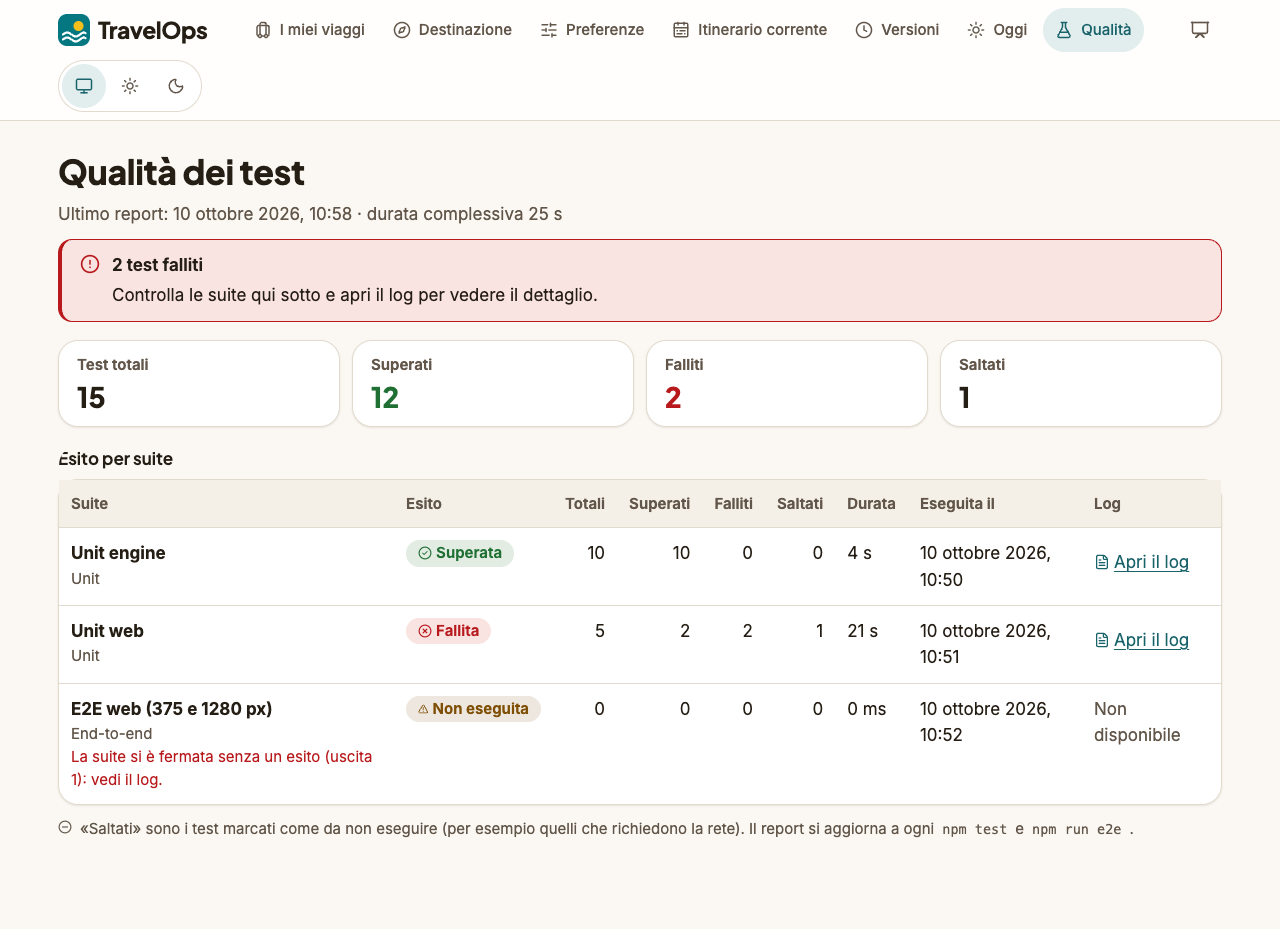
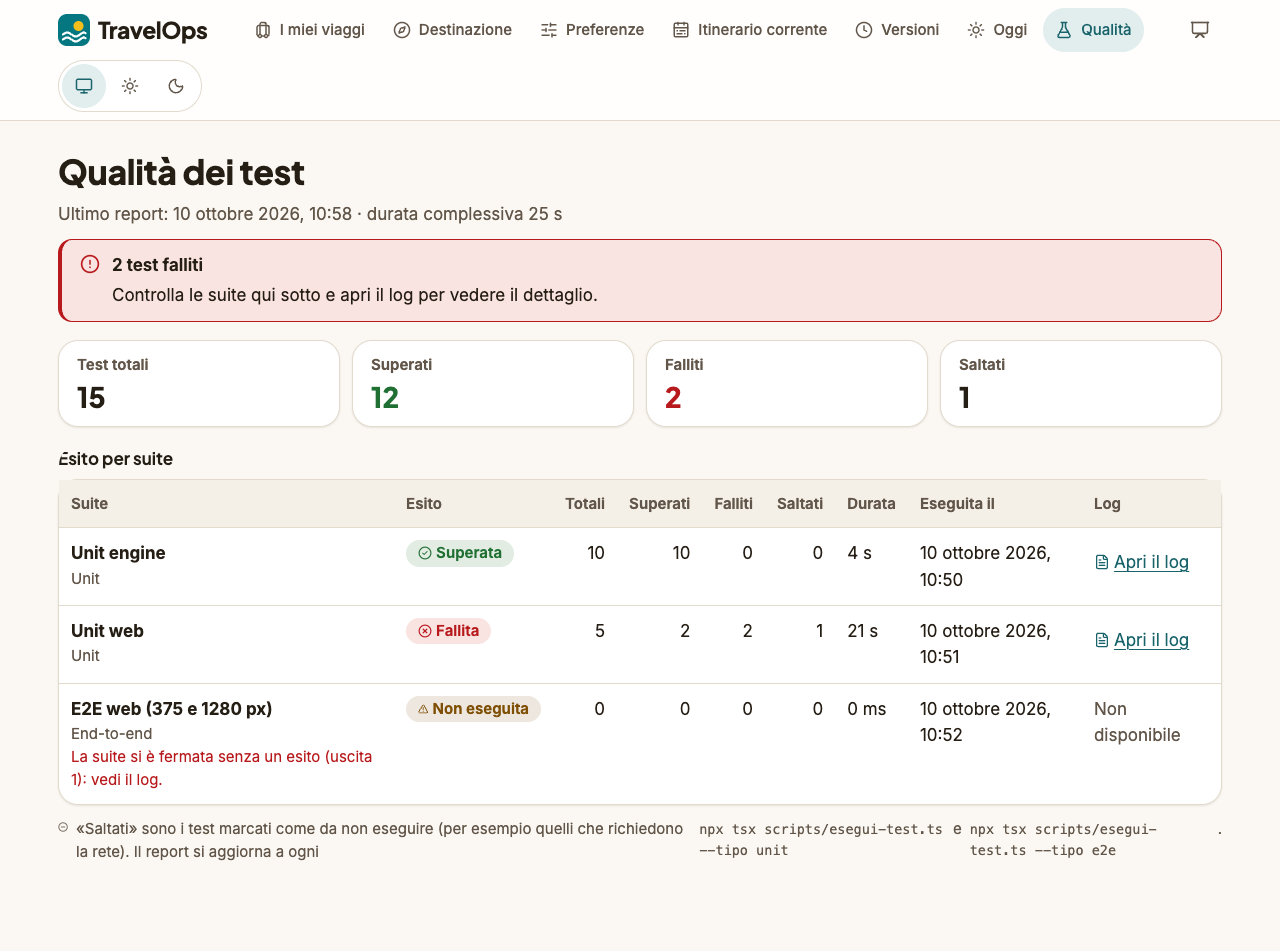
fix(obs-001a): report dei test da comando dedicato, package.json e .gitattributes come su main

diff --git a/apps/web/src/componenti/PaginaQualita.tsx b/apps/web/src/componenti/PaginaQualita.tsx
@@ -18,7 +18,7 @@ const TIPI: Readonly<Record<SuiteTest["tipo"], string>> = { unit: "Unit", e2e: "
 function Comandi() {
   return (
     <p className="qualita__comandi">
-      <code>npm test</code> <span aria-hidden="true">·</span> <code>npm run e2e</code>
+      <code>npx tsx scripts/esegui-test.ts --tipo unit</code> <span aria-hidden="true">·</span> <code>npx tsx scripts/esegui-test.ts --tipo e2e</code>
     </p>
   );
 }
@@ -105,7 +105,7 @@ function RigaSuite({ suite, fuso }: { suite: SuiteTest; fuso: string }) {
 }
 
 /**
- * Qualità dei test (ST-OBS-001A, REQ-OBS-001): l'ultimo report dei test scritto dagli script `npm test` e `npm run e2e`,
+ * Qualità dei test (ST-OBS-001A, REQ-OBS-001): l'ultimo report dei test scritto dagli script `npx tsx scripts/esegui-test.ts --tipo unit` e `npx tsx scripts/esegui-test.ts --tipo e2e`,
  * con i totali, l'esito di ogni suite, la data, la durata e il link al log. Senza il file (o con un file rotto) dice come generarlo.
  */
 export function PaginaQualita({ esito, fuso }: { esito: EsitoLetturaRapporto; fuso: string }) {
@@ -153,7 +153,7 @@ export function PaginaQualita({ esito, fuso }: { esito: EsitoLetturaRapporto; fu
         </tbody>
       </table>
       <p className="sottotitolo qualita__nota">
-        <MinusCircle size={14} aria-hidden="true" /> «Saltati» sono i test marcati come da non eseguire (per esempio quelli che richiedono la rete). Il report si aggiorna a ogni <code>npm test</code> e <code>npm run e2e</code>.
+        <MinusCircle size={14} aria-hidden="true" /> «Saltati» sono i test marcati come da non eseguire (per esempio quelli che richiedono la rete). Il report si aggiorna a ogni <code>npx tsx scripts/esegui-test.ts --tipo unit</code> e <code>npx tsx scripts/esegui-test.ts --tipo e2e</code>.
       </p>
     </section>
   );

diff --git a/apps/web/test/ca1-configurazione.test.ts b/apps/web/test/ca1-configurazione.test.ts
@@ -31,11 +31,7 @@ describe("CA-1 avvio, build e integrazione continua", () => {
 
   it("CA-1 dalla radice `npm run build` e `npm test` comprendono tutti i workspace, quindi anche la web app", () => {
     expect(radice.scripts.build).toBe("npm run build --workspaces --if-present");
-    // ST-OBS-001A: `npm test` passa da uno script che esegue ogni workspace con test e ne scrive il report;
-    // le suite sono in scripts/suite-test.json e devono coprire tutti i workspace (anche la web app).
-    expect(radice.scripts.test).toBe("tsx scripts/esegui-test.ts --tipo unit");
-    const suite = JSON.parse(leggi("../../../scripts/suite-test.json")) as { suite: { workspace: string; tipo: string }[] };
-    expect(suite.suite.filter((s) => s.tipo === "unit").map((s) => s.workspace).sort()).toEqual(["@travelops/agents", "@travelops/engine", "@travelops/sources", "@travelops/web"]);
+    expect(radice.scripts.test).toBe("npm test --workspaces --if-present");
     // Il motore va compilato prima della web app: i workspace sono elencati con packages/* prima di apps/*.
     expect(radice.workspaces).toEqual(["packages/*", "apps/*"]);
   });

diff --git a/apps/web/test/obs001a-pagina.test.tsx b/apps/web/test/obs001a-pagina.test.tsx
@@ -79,8 +79,8 @@ describe("senza report (CA-2)", () => {
     expect([...d.querySelectorAll("h1")].map((h) => h.textContent)).toEqual(["Nessun report dei test"]);
     const t = testoVisibile(markup);
     expect(t).toContain(PERCORSO);
-    expect(t).toContain("npm test");
-    expect(t).toContain("npm run e2e");
+    expect(t).toContain("npx tsx scripts/esegui-test.ts --tipo unit");
+    expect(t).toContain("npx tsx scripts/esegui-test.ts --tipo e2e");
     expect(t).toContain("TRAVELOPS_RAPPORTO_TEST");
     expect(d.querySelector("table")).toBeNull();
   });
@@ -91,7 +91,7 @@ describe("senza report (CA-2)", () => {
     expect(d.querySelector("[data-stato='non-valido']")).not.toBeNull();
     expect([...d.querySelectorAll("h1")].map((h) => h.textContent)).toEqual(["Il report dei test non è leggibile"]);
     expect(testoVisibile(markup)).toContain("non è un JSON valido");
-    expect(testoVisibile(markup)).toContain("npm test");
+    expect(testoVisibile(markup)).toContain("npx tsx scripts/esegui-test.ts --tipo unit");
   });
 });
 

diff --git a/apps/web/e2e/obs001a-qualita.e2e.ts b/apps/web/e2e/obs001a-qualita.e2e.ts
@@ -81,8 +81,8 @@ flusso(
     await f.passo("Dice dove lo cerca e quali comandi lo generano", async () => {
       const visto = await testo(pagina);
       expect(visto).toContain(join(CARTELLA_REPORT, "non-esiste.json"));
-      expect(visto).toContain("npm test");
-      expect(visto).toContain("npm run e2e");
+      expect(visto).toContain("npx tsx scripts/esegui-test.ts --tipo unit");
+      expect(visto).toContain("npx tsx scripts/esegui-test.ts --tipo e2e");
       expect(await pagina.locator("table").count()).toBe(0);
       expect(await scorrimentoOrizzontale(pagina)).toBeLessThanOrEqual(0);
       expect(await violazioniAxe(pagina)).toEqual([]);

diff --git a/scripts/esegui-test.ts b/scripts/esegui-test.ts
@@ -1,8 +1,8 @@
 /**
  * Esegue le suite di test elencate in `scripts/suite-test.json` e ne aggiorna il report (ST-OBS-001A).
  *
- *   tsx scripts/esegui-test.ts --tipo unit      # `npm test`
- *   tsx scripts/esegui-test.ts --tipo e2e       # `npm run e2e`
+ *   tsx scripts/esegui-test.ts --tipo unit      # unit
+ *   tsx scripts/esegui-test.ts --tipo e2e       # e2e
  *   tsx scripts/esegui-test.ts engine web       # suite scelte per id
  *
  * Per ogni suite: lancia lo script del workspace con il reporter del report accanto a quello predefinito, salva l'output

diff --git a/evidence/ST-OBS-001A.md b/evidence/ST-OBS-001A.md
@@ -5,7 +5,7 @@
 REQ-OBS-001, parte «report dei test visibile nell'app» (la parte sulle tracce degli agenti è ST-OBS-001B, non toccata):
 
 1. una pagina dell'app (`/qualita`) mostra l'ultimo report dei test: totali, superati/falliti/saltati per suite (unit engine, agents, sources, web ed e2e), data, durata e link ai log;
-2. il report è letto da un file JSON generato dagli script di test (`npm test`, `npm run e2e`) tramite un reporter; formato e percorso configurabili, nessun servizio esterno;
+2. il report è letto da un file JSON generato dagli script di test (`npx tsx scripts/esegui-test.ts --tipo unit`, `npx tsx scripts/esegui-test.ts --tipo e2e`) tramite un reporter; formato e percorso configurabili, nessun servizio esterno;
 3. senza file (o con un file non valido) la pagina dà uno stato vuoto chiaro;
 4. test unit ed e2e a 375 e 1280 px, stile coerente con il design system.
 
@@ -16,7 +16,7 @@ REQ-OBS-001, parte «report dei test visibile nell'app» (la parte sulle tracce 
 | Formato, unione per suite, scrittura atomica del report | `scripts/rapporto-test.ts` |
 | Reporter di Vitest | `scripts/reporter-test.ts` |
 | Esecuzione delle suite, log per suite, esito «errore» se la suite si ferma prima | `scripts/esegui-test.ts`, `scripts/suite-test.json` |
-| `npm test` e `npm run e2e` passano dallo script | `package.json` |
+| I comandi `scripts/esegui-test.ts --tipo unit` e `--tipo e2e` eseguono le suite e scrivono il report | `scripts/esegui-test.ts`, `scripts/suite-test.json` |
 | Lettura e validazione del report, percorso e fuso configurabili, protezione dei log | `apps/web/src/qualita/rapporto.ts` |
 | Pagina e indirizzo dei log | `apps/web/src/componenti/PaginaQualita.tsx`, `apps/web/app/qualita/page.tsx`, `apps/web/app/qualita/log/[suite]/route.ts` |
 | Menu e stile (solo token) | `apps/web/src/ui/Navigazione.tsx`, `src/percorsi.ts`, `app/globals.css` |
@@ -33,10 +33,10 @@ REQ-OBS-001, parte «report dei test visibile nell'app» (la parte sulle tracce 
 
 ## Verifica
 
-- `npm test`: engine 740, agents 133, sources 138 (+1 saltato), web 611 test superati.
-- `npm run e2e`: 45 test superati, compresi i flussi 8 e 8b a 375 e 1280 px (menu, totali, esiti, link al log, nessuno scorrimento orizzontale, axe con contrasto, stato vuoto).
+- `npx tsx scripts/esegui-test.ts --tipo unit`: engine 740, agents 133, sources 138 (+1 saltato), web 611 test superati.
+- `npx tsx scripts/esegui-test.ts --tipo e2e`: 45 test superati, compresi i flussi 8 e 8b a 375 e 1280 px (menu, totali, esiti, link al log, nessuno scorrimento orizzontale, axe con contrasto, stato vuoto).
 - Accessibilità (DV-ui-accessibility): axe in jsdom (`obs001a-pagina.test.tsx`) e nel browser a 375 e 1280 px (e2e).
-- Passi documentati (DV-docs-executable): `docs/report-test.md` seguito alla lettera; il report è stato generato con `npm test` / `npm run e2e` e letto dalla pagina.
+- Passi documentati (DV-docs-executable): `docs/report-test.md` seguito alla lettera; il report è stato generato con `npx tsx scripts/esegui-test.ts --tipo unit` / `npx tsx scripts/esegui-test.ts --tipo e2e` e letto dalla pagina.
 - Screenshot: `evidence/ST-OBS-001A/screenshots/qualita-{con,senza}-report--{375,1280}px.png`.
 
 ## Limiti

diff --git a/docs/report-test.md b/docs/report-test.md
@@ -1,11 +1,11 @@
 # Report dei test
 
-`npm test` e `npm run e2e` scrivono l'esito di ogni suite in un file JSON; la pagina **Qualità** dell'app (`/qualita`, voce «Qualità» del menu) lo legge e mostra totali, superati, falliti e saltati per suite, data, durata e il link al log. Nessun servizio esterno.
+`npx tsx scripts/esegui-test.ts --tipo unit` e `npx tsx scripts/esegui-test.ts --tipo e2e` scrivono l'esito di ogni suite in un file JSON; la pagina **Qualità** dell'app (`/qualita`, voce «Qualità» del menu) lo legge e mostra totali, superati, falliti e saltati per suite, data, durata e il link al log. Nessun servizio esterno.
 
 ## Generare e vedere il report
 
 1. `npm ci` e `npm run build` (una volta).
-2. `npm test` esegue le suite unit (engine, agents, sources, web); `npm run e2e` esegue l'end-to-end a 375 e 1280 px. Si può lanciare una suite sola: `npx tsx scripts/esegui-test.ts web`.
+2. `npx tsx scripts/esegui-test.ts --tipo unit` esegue le suite unit (engine, agents, sources, web); `npx tsx scripts/esegui-test.ts --tipo e2e` esegue l'end-to-end a 375 e 1280 px. Si può lanciare una suite sola: `npx tsx scripts/esegui-test.ts web`.
 3. `npm run dev`, poi apri <http://localhost:3000/qualita>. Dopo un nuovo giro di test basta ricaricare la pagina.
 
 Senza il file (o se non è valido) la pagina lo dice e indica questi comandi.
